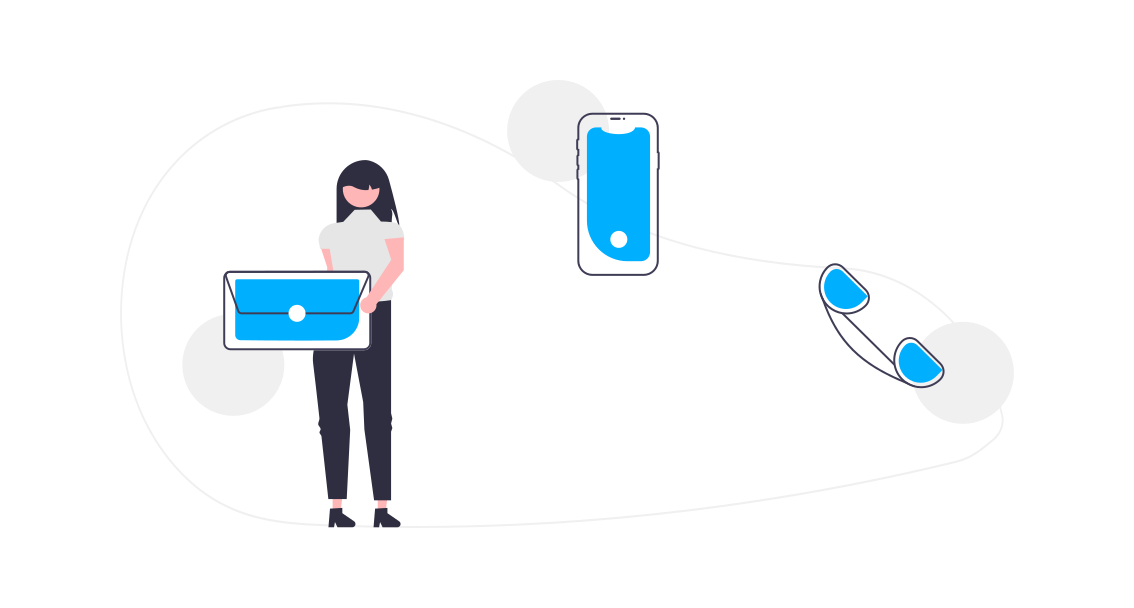
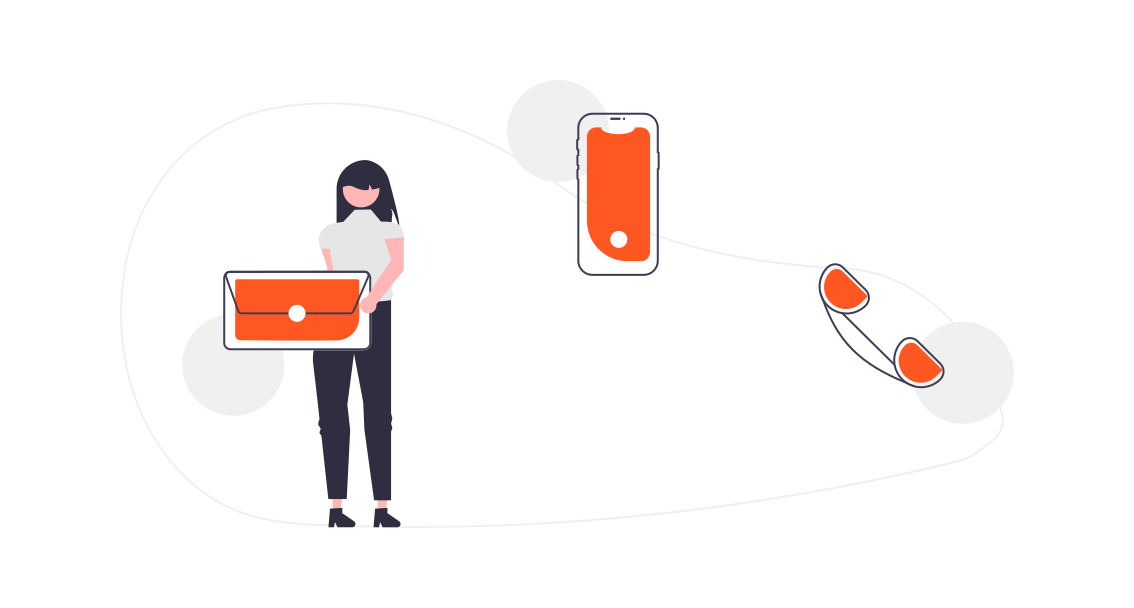
Add files via upload

diff --git a/index.html b/index.html
@@ -121,21 +121,21 @@
     <div class="container-fluid py-5 wow fadeInUp" data-wow-delay="0.1s">
         <div class="container py-5">
             <div class="section-title text-center position-relative pb-3 mb-5 mx-auto" style="max-width: 600px;">
-                <h5 class="fw-bold text-primary text-uppercase">Why Choose Us</h5>
+                <h5 class="fw-bold text-uppercase" style="color: #FF5722;">Why Choose Us</h5>
                 <h1 class="mb-0">Empowering Your Success with Expert IT Solutions</h1>
             </div>
             <div class="row g-5">
                 <div class="col-lg-4">
                     <div class="row g-5">
                         <div class="col-12 wow zoomIn" data-wow-delay="0.2s">
-                            <div class="bg-primary rounded d-flex align-items-center justify-content-center mb-3" style="width: 60px; height: 60px;">
+                            <div class="rounded d-flex align-items-center justify-content-center mb-3" style="width: 60px; height: 60px; background: #FF5722;">
                                 <i class="fa fa-cubes text-white"></i>
                             </div>
                             <h4>Cutting-edge Solutions</h4>
                             <p class="mb-0">Delivering the latest technology solutions to drive innovation and business excellence.</p>
                         </div>
                         <div class="col-12 wow zoomIn" data-wow-delay="0.6s">
-                            <div class="bg-primary rounded d-flex align-items-center justify-content-center mb-3" style="width: 60px; height: 60px;">
+                            <div class="rounded d-flex align-items-center justify-content-center mb-3" style="width: 60px; height: 60px; background: #FF5722;">
                                 <i class="fa fa-award text-white"></i>
                             </div>
                             <h4>Dedicated Resources</h4>
@@ -151,14 +151,14 @@
                 <div class="col-lg-4">
                     <div class="row g-5">
                         <div class="col-12 wow zoomIn" data-wow-delay="0.4s">
-                            <div class="bg-primary rounded d-flex align-items-center justify-content-center mb-3" style="width: 60px; height: 60px;">
+                            <div class="rounded d-flex align-items-center justify-content-center mb-3" style="width: 60px; height: 60px; background: #FF5722;">
                                 <i class="fa fa-users-cog text-white"></i>
                             </div>
                             <h4>On-Time and On Budget</h4>
                             <p class="mb-0">We complete projects on time and within budget to meet your goals.</p>
                         </div>
                         <div class="col-12 wow zoomIn" data-wow-delay="0.8s">
-                            <div class="bg-primary rounded d-flex align-items-center justify-content-center mb-3" style="width: 60px; height: 60px;">
+                            <div class="rounded d-flex align-items-center justify-content-center mb-3" style="width: 60px; height: 60px; background: #FF5722;">
                                 <i class="fa fa-phone-alt text-white"></i>
                             </div>
                             <h4>24/7 Support</h4>
@@ -175,12 +175,12 @@
     <div class="container-fluid py-5 wow fadeInUp" data-wow-delay="0.1s" id="service">
         <div class="container py-5">
             <div class="section-title text-center position-relative pb-3 mb-5 mx-auto" style="max-width: 600px;">
-                <h5 class="fw-bold text-primary text-uppercase">Our Services</h5>
+                <h5 class="fw-bold text-uppercase" style="color: #FF5722;">Our Services</h5>
                 
             </div>
             <div class="row g-5">
                 <div class="col-lg-4 col-md-6 wow zoomIn" data-wow-delay="0.9s">
-                    <div class="service-item bg-light rounded d-flex flex-column align-items-center justify-content-center text-center">
+                    <div class="service-item rounded d-flex flex-column align-items-center justify-content-center text-center" style="background: #FFF8F3;">
                         <div class="service-icon">
                             <i class="fa fa-code text-white"></i>
                         </div>
@@ -190,7 +190,7 @@
                     </div>
                 </div>
                 <div class="col-lg-4 col-md-6 wow zoomIn" data-wow-delay="0.3s">
-                    <div class="service-item bg-light rounded d-flex flex-column align-items-center justify-content-center text-center">
+                    <div class="service-item rounded d-flex flex-column align-items-center justify-content-center text-center"style="background: #FFF8F3;">
                         <div class="service-icon">
                             <i class="fab fa-android text-white"></i>
                         </div>
@@ -200,7 +200,7 @@
                     </div>
                 </div>
                 <div class="col-lg-4 col-md-6 wow zoomIn" data-wow-delay="0.6s">
-                    <div class="service-item bg-light rounded d-flex flex-column align-items-center justify-content-center text-center">
+                    <div class="service-item rounded d-flex flex-column align-items-center justify-content-center text-center"style="background: #FFF8F3;">
                         <div class="service-icon">
                             <i class="fa fa-desktop text-white"></i>
                         </div>
@@ -209,7 +209,7 @@
                     </div>
                 </div>
                 <div class="col-lg-4 col-md-6 wow zoomIn" data-wow-delay="0.6s">
-                    <div class="service-item bg-light rounded d-flex flex-column align-items-center justify-content-center text-center">
+                    <div class="service-item  rounded d-flex flex-column align-items-center justify-content-center text-center"style="background: #FFF8F3;">
                         <div class="service-icon">
                             <i class="fa fa-paint-brush text-white"></i>
                         </div>
@@ -218,7 +218,7 @@
                     </div>
                 </div>
                 <div class="col-lg-4 col-md-6 wow zoomIn" data-wow-delay="0.9s">
-                    <div class="position-relative bg-primary rounded h-100 d-flex flex-column align-items-center justify-content-center text-center p-5">
+                    <div class="position-relative rounded h-100 d-flex flex-column align-items-center justify-content-center text-center p-5"style="background: #FF5722;">
                         <h2 class="text-white mb-3">Contact Us On</h2>
                         <p class="mb-0"><a href="https://mail.google.com/mail/?view=cm&fs=1&to=shreeharitech369@gmail.com" class="text-white">shreeharitech369@gmail.com</a></p>
                         <p class="mb-0"><a href="tel:+917623977045" class="text-white ">+917623977045</a></p>
@@ -233,7 +233,7 @@
     <!-- Vendor Start -->
     <div class="container-fluid py-5 wow fadeInUp" data-wow-delay="0.1s">
         <div class="section-title text-center position-relative pb-3 mb-5 mx-auto" style="max-width: 600px;">
-            <h4 class="fw-bold text-primary text-uppercase">Our Technology</h4>
+            <h4 class="fw-bold text-uppercase" style="color: #FF5722;">Our Technology</h4>
         </div>
         <div class="container py-5 mb-5">
             <div class="bg-white">
@@ -267,7 +267,7 @@
             <div class="row g-5">
                 <div class="col-lg-7">
                     <div class="section-title position-relative pb-3 mb-5">
-                        <h5 class="fw-bold text-primary text-uppercase">About Us</h5>
+                        <h5 class="fw-bold text-uppercase" style="color: #FF5722;">About Us</h5>
                         <h1 class="mb-0">The Best IT Solution With Shree Hari Tech</h1>
                     </div>
                     <p class="mb-3">At Shree Hari Tech, we are dedicated to driving digital innovation and providing cutting-edge technology solutions to empower businesses across industries. Founded on principles of excellence and customer satisfaction, our team specializes in delivering reliable and customized IT solutions that help businesses transform, scale, and thrive in a constantly evolving digital landscape.</p>
@@ -290,7 +290,7 @@
     <div class="container-fluid py-5 wow fadeInUp" data-wow-delay="0.1s">
         <div class="container py-5">
             <div class="section-title text-center position-relative pb-3 mb-5 mx-auto" style="max-width: 600px;">
-                <h5 class="fw-bold text-primary text-uppercase">Developers</h5>
+                <h5 class="fw-bold text-uppercase" style="color: #FF5722;">Developers</h5>
             </div>
             <div class="row g-5">
                 <div class="col-lg-4 wow slideInUp" data-wow-delay="0.3s">
@@ -303,8 +303,8 @@
                                 <a class="btn btn-lg btn-primary btn-lg-square rounded" href="https://www.linkedin.com/in/harsh-shah-11a68220b?utm_source=share&utm_campaign=share_via&utm_content=profile&utm_medium=android_app"><i class="fab fa-linkedin-in fw-normal"></i></a>
                             </div>
                         </div>
-                        <div class="text-center py-4">
-                            <h4 class="text-primary">Harsh Shah</h4>
+                        <div class="text-center py-4" style="background: #FFF8F3;">
+                            <h4 style="color: #FF5722;">Harsh Shah</h4>
                             <!-- <p class="text-uppercase m-0">Web Developer</p> -->
                         </div>
                     </div>
@@ -317,8 +317,8 @@
                                 <a class="btn btn-lg btn-primary btn-lg-square rounded" href="https://www.linkedin.com/in/eric-vasavada-50405531a?utm_source=share&utm_campaign=share_via&utm_content=profile&utm_medium=android_app"><i class="fab fa-linkedin-in fw-normal"></i></a>
                             </div>
                         </div>
-                        <div class="text-center py-4">
-                            <h4 class="text-primary">Eric Vasavada</h4>
+                        <div class="text-center py-4" style="background: #FFF8F3;">
+                            <h4 style="color: #FF5722;">Eric Vasavada</h4>
                             <!-- <p class="text-uppercase m-0">Android Developer</p> -->
                         </div>
                     </div>
@@ -334,30 +334,30 @@
     <div class="container-fluid py-5 wow fadeInUp" data-wow-delay="0.1s" id="contact">
         <div class="container py-5">
             <div class="section-title text-center position-relative pb-3 mb-5 mx-auto" style="max-width: 600px;">
-                <h5 class="fw-bold text-primary text-uppercase">Contact Us</h5>
+                <h5 class="fw-bold text-uppercase" style="color: #FF5722;">Contact Us</h5>
                 <h1 class="mb-0">If You Have Any Query, Feel Free To Contact Us</h1>
             </div>
             <div class="row g-5 mb-5">
                 <div class="col-lg-4">
                     <div class="d-flex align-items-center wow fadeIn" data-wow-delay="0.1s">
-                        <div class="bg-primary d-flex align-items-center justify-content-center rounded" style="width: 60px; height: 60px;">
+                        <div class=" d-flex align-items-center justify-content-center rounded" style="width: 60px; height: 60px; background: #FF5722;">
                             <i class="fa fa-phone-alt text-white"></i>
                         </div>
                         <div class="ps-4">
                             <h5 class="mb-2">Call Us On</h5>
-                            <h4 class="text-primary mb-0"><a href="tel:+917623977045" >+917623977045</a></h4>
-                            <h4 class="text-primary mb-0"><a href="tel:+919106899603" >+919106899603</a></h4>
+                            <h4 class="mb-0" ><a href="tel:+917623977045" style="color: #FF5722;">+917623977045</a></h4>
+                            <h4 class="mb-0" ><a href="tel:+919106899603" style="color: #FF5722;">+919106899603</a></h4>
                         </div>
                     </div>
                 </div>
                 <div class="col-lg-4">
                     <div class="d-flex align-items-center wow fadeIn" data-wow-delay="0.4s">
-                        <div class="bg-primary d-flex align-items-center justify-content-center rounded" style="width: 60px; height: 60px;">
+                        <div class="d-flex align-items-center justify-content-center rounded" style="width: 60px; height: 60px; background: #FF5722;">
                             <i class="fa fa-envelope-open text-white"></i>
                         </div>
                         <div class="ps-4">
                             <h5 class="mb-2">Email On</h5>
-                            <h4 class="text-primary mb-0"><a href="https://mail.google.com/mail/?view=cm&fs=1&to=shreeharitech369@gmail.com">shreeharitech369@gmail.com</a></h4>
+                            <h4 class="mb-0"><a href="https://mail.google.com/mail/?view=cm&fs=1&to=shreeharitech369@gmail.com" style="color: #FF5722;">shreeharitech369@gmail.com</a></h4>
                         </div>
                     </div>
                 </div>
@@ -369,16 +369,16 @@
                     <form id="contactForm">
                         <div class="row g-3">
                           <div class="col-md-6">
-                            <input type="text" id="name" class="form-control border-0 bg-light px-4" placeholder="Your Name" style="height: 55px;" required>
+                            <input type="text" id="name" class="form-control border-0 px-4" placeholder="Your Name" style="height: 55px; background: #FFF8F3;" required>
                           </div>
                           <div class="col-md-6">
-                            <input type="email" id="email" class="form-control border-0 bg-light px-4" placeholder="Your Email" style="height: 55px;" required>
+                            <input type="email" id="email" class="form-control border-0  px-4" placeholder="Your Email" style="height: 55px; background: #FFF8F3;" required>
                           </div>
                           <div class="col-12">
-                            <input type="text" id="subject" class="form-control border-0 bg-light px-4" placeholder="Subject" style="height: 55px;" required>
+                            <input type="text" id="subject" class="form-control border-0  px-4" placeholder="Subject" style="height: 55px; background: #FFF8F3;" required>
                           </div>
                           <div class="col-12">
-                            <textarea id="message" class="form-control border-0 bg-light px-4 py-3" rows="4" placeholder="Message" required></textarea>
+                            <textarea id="message" class="form-control border-0  px-4 py-3" rows="4" placeholder="Message" style="background: #FFF8F3;;" required></textarea>
                           </div>
                           <div class="col-12">
                             <button class="btn btn-primary w-100 py-3" type="button" onclick="submitForm()">Send Message</button>
@@ -402,7 +402,7 @@
         <div class="container">
             <div class="row gx-5">
                 <div class="col-lg-4 col-md-6 footer-about">
-                    <div class="d-flex flex-column align-items-center justify-content-center text-center h-100 bg-primary p-4">
+                    <div class="d-flex flex-column align-items-center justify-content-center text-center h-100 p-4" style="background: #FF5722;">
                         <a href="index.html" class="navbar-brand">
                             <h1 class="text-white">ShreeHariTech</h1>
                         </a>

diff --git a/css/style.css b/css/style.css
@@ -1,10 +1,11 @@
 /********** Template CSS **********/
 :root {
-    --primary: #06A3DA;
-    --secondary: #34AD54;
-    --light: #EEF9FF;
-    --dark: #091E3E;
+    --primary: #FF5722; /* Orange */
+    --secondary: #FF8A50; /* Light Orange */
+    --light: #FFF8F3; /* Soft Light Background */
+    --dark: #4E342E; /* Dark Brown (contrasting shade for orange) */
 }
+
 
 
 /*** Spinner ***/
@@ -85,19 +86,26 @@ h6,
     transition: .5s;
 }
 
-.btn-primary,
-.btn-secondary {
-    color: #FFFFFF;
-    box-shadow: inset 0 0 0 50px transparent;
+.btn-primary {
+    background: var(--primary);
+    border: none;
+    color: var(--light);
 }
 
 .btn-primary:hover {
-    box-shadow: inset 0 0 0 0 var(--primary);
+    background: var(--dark);
+}
+
+.btn-secondary {
+    background: var(--secondary);
+    border: none;
+    color: var(--light);
 }
 
 .btn-secondary:hover {
-    box-shadow: inset 0 0 0 0 var(--secondary);
+    background: var(--primary);
 }
+
 
 .btn-square {
     width: 36px;
@@ -122,9 +130,11 @@ h6,
     text-align: center;
 }
 
-.navbar-light{
-    background: #ffffffaf;
+.navbar-light {
+    background: var(--light);
+    border-bottom: 2px solid var(--primary);
 }
+
 
 /*** Navbar ***/
 .navbar-light .navbar-nav .nav-link {
@@ -132,7 +142,7 @@ h6,
     position: relative;
     margin-left: 25px;
     padding: 35px 0;
-    color: #000000; /* Changed from white to black */
+    color: var(--dark);
     font-size: 18px;
     font-weight: 600;
     outline: none;
@@ -150,7 +160,7 @@ h6,
 }
 
 .navbar-light .navbar-brand h1 {
-    color: #000000; /* Changed from white to black */
+    color: var(--primary);
 }
 
 .navbar-light .navbar-toggler {
@@ -225,7 +235,7 @@ h6,
     left: 0;
     right: 0;
     bottom: 0;
-    background: rgba(9, 30, 62, .7);
+    background: rgba(92, 92, 92, 0.7); /* Semi-transparent dark */
     z-index: 1;
 }
 
@@ -281,7 +291,7 @@ h6,
     width: 6px;
     height: 5px;
     bottom: 0px;
-    background: #FFFFFF;
+    background: var(--secondary);
     -webkit-animation: section-title-run 5s infinite linear;
     animation: section-title-run 5s infinite linear;
 }
@@ -350,6 +360,8 @@ h6,
 .service-item:hover a.btn {
     bottom: -24px;
     opacity: 1;
+    background: var(--dark);
+    color: var(--light);
 }
 
 
@@ -359,6 +371,7 @@ h6,
     display: flex;
     align-items: flex-end;
     justify-content: center;
+    
 }
 
 .testimonial-carousel .owl-dot {
@@ -367,7 +380,7 @@ h6,
     margin: 0 5px;
     width: 15px;
     height: 15px;
-    background: #DDDDDD;
+    background: #FBE9E7; /* Light tint of orange */
     border-radius: 2px;
     transition: .5s;
 }
@@ -421,7 +434,7 @@ h6,
 }
 
 .team-item:hover .team-social {
-    background: rgba(9, 30, 62, .7);
+    background: rgba(119, 119, 119, 0.7); /* Orange overlay */
 }
 
 .team-item:hover .team-social a.btn:first-child {
@@ -468,18 +481,36 @@ h6,
     }
 }
 
+/*** Footer ***/
+.footer {
+    background: var(--dark);
+    color: var(--light);
+}
+
+.footer a {
+    color: var(--primary);
+}
+
+.footer a:hover {
+    color: var(--secondary);
+}
+
+
 .back-to-top {
     position: fixed;
     display: none;
     right: 45px;
     bottom: 45px;
     z-index: 99;
+    background: var(--primary);
+    color: var(--light);
 }
 
 .bg-header {
-    background: linear-gradient(rgba(9, 30, 62, .7), rgba(9, 30, 62, .7)), url(../img/carousel-1.jpg) center center no-repeat;
+    background: linear-gradient(rgba(51, 51, 51, 0.7), rgba(51, 51, 51, 0.7)), url(../img/carousel-1.jpg) center center no-repeat;
     background-size: cover;
 }
+
 
 .link-animated a {
     transition: .5s;
@@ -487,6 +518,7 @@ h6,
 
 .link-animated a:hover {
     padding-left: 10px;
+    color: var(--secondary);
 }
 
 @media (min-width: 767.98px) {
